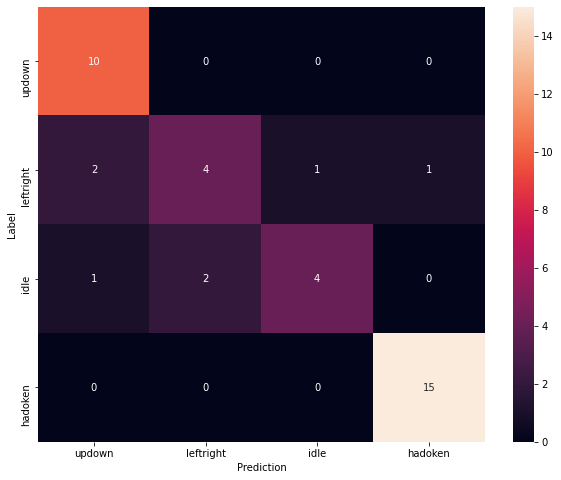
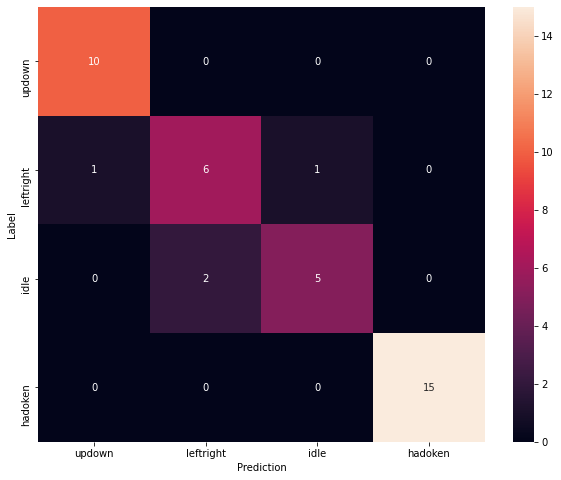
Gesture recognition done

diff --git a/assets/css/main.css b/assets/css/main.css
@@ -56,6 +56,10 @@ figure,
 main {
   /* 1 */
   display: block;
+  text-align: center;
+  text-size-adjust: auto;
+  font-size: 12px;
+  font-weight: 500;
 }
 
 /**

diff --git a/_posts/2021-03-27-gesture-recognition-using-a-neural-network.md b/_posts/2021-03-27-gesture-recognition-using-a-neural-network.md
@@ -1,38 +1,28 @@
 ---
-title: ANN Gesture recognition with Thingy:52 and MPU-6050
+title: Gesture recognition with a Thingy:52 and an MPU-6050
 layout: post
 description: Gesture recognition using a set of 3-axis IMU sensors
 img: gesture.jpg
 ---
 
-Gesture recognition is a fascinating area widely explored in the literature. Its goal is to infer users' actions based on their movement and it is mainly used in Human Computer Interaction. The general structure of gesture recognition consists of three main steps:
-- Data acquisition. In the first step, we list all the mecanisms used for collecting movements data and saving in a usable shape.
-- Pattern recognition
-- Interpretation
-
-In this article, we will build a simple model that collects data from an Inertial Measurement Unit (IMU) sensors and identifies known gestures. 
-The rest of the article is specially dedicated to those of you who are born in the 90's and/or have a culture of arcade gaming. If it applies to you, then you probably heard about Street Fighter II. If words like _SNES_, _Street Fighter_ or _arcade_ sound unfamiliar to you, please read at least [this article](https://en.wikipedia.org/wiki/Street_Fighter_II).
-
-### Plan
-- Data acquisition
-- Collecting data with MPU 6050
-- Collecting data with Nordic Thingy
-- Data processing
-- Training
-- Using the model
+Gesture recognition is a fascinating area widely explored in the literature. Mainly used in Human-Computer Interaction (HCI), its goal is to infer users’ actions based on their movement. The general structure of our project for detecting gestures consists of three main steps:
+- Data acquisition. In the first step, we list all the mechanisms used for collecting movements data and saving it in a usable shape.
+- Data processing. This step includes cleaning, data analysis, and model training.
+- Interpretation. In the last step, we can judge whether our train model works well or whether we have messed up :-(
+In this article, we will build a simple model that collects data from Inertial Measurement Unit (IMU) sensors and identifies known gestures. The rest of the article is specially dedicated to those of you born in the ’90s and/or who have a culture of arcade gaming. If it applies to you, then you probably heard about *Street Fighter II*. If words like *SNES*, *Street Fighter* or *arcade* sound unfamiliar to you, please read [this article](https://en.wikipedia.org/wiki/Street_Fighter_II).
 
 ## Data acquisition
-To collect data, we can use two approaches, one with a 3-Axis accelerometer and gyroscope IMU - MPU6050  and a Nordic Thingy:52 which is built on a Bluetooth 5 ready nRF52832 SoC and embeds a 9-axis IMU (Accelerometer, compass and Gyroscope).
+To collect data, we can use two approaches. The first one using a 3-Axis accelerometer and gyroscope IMU - ***MPU6050***  and the second approach using a ***Nordic Thingy:52*** which is built on a Bluetooth 5 ready ***nRF52832 SoC*** and embeds a 9-axis IMU (Accelerometer, compass and Gyroscope).
 
 ### Collecting data with an MPU6050
-If you choose to use this approach, make sure to order the correct IMU sensor. You can use this link as reference: [MPU-6050 on Amazon](https://www.amazon.com/HiLetgo-MPU-6050-Accelerometer-Gyroscope-Converter/dp/B00LP25V1A/ref=sr_1_1?dchild=1&keywords=MPU-6050&qid=1625759114&sr=8-1).
-As you can see, it is quite cheap so do not hesitate to order several items just to be on the safe side. In this article, we will collect data from the IMU sensor through a Raspberry Pi. Make sure to have a soldering iron and some wires to connect to the GPIO port on your Raspberry as presented below.
+If you choose to use this approach, make sure to order the correct IMU sensor. You can use this link as a reference: [MPU-6050 on Amazon](https://www.amazon.com/HiLetgo-MPU-6050-Accelerometer-Gyroscope-Converter/dp/B00LP25V1A/ref=sr_1_1?dchild=1&keywords=MPU-6050&qid=1625759114&sr=8-1).
+As you can see, it is pretty cheap do not hesitate to order several items just to be on the safe side. In this article, we will collect data from the IMU sensor through a Raspberry Pi. Make sure to have a soldering iron and some wires to connect to the GPIO port on your Raspberry, as presented below.
 <figure>
 	<img src="../assets/img/RPI_mpu6050.jpg" style="height=500px; text-align:'center'" />
 	<figcaption>Wiring an MPU6050 to RPi GPIO ports</figcaption>
 </figure>
 
-Once the hardware part done, we can focus on the software side. To manipulate the data, we will create a simple script to make a link between the sensor and the Raspberry, collect the data and store in a file.
+Once the hardware part is done, we can focus on the software side. To manipulate the data, we will create a simple script to link the sensor to the Raspberry, collect the data and store in a file.
 
 ```python
 from board import SDA, SCL
@@ -65,7 +55,7 @@ with open("idle.csv", mode="w") as f:
 
 ```
 
-The data collected will be used to train our Neural Network. By default, we will collect 10 samples per second or each action and save in a `CSV` file that should look as follows:
+The data collected will be used to train our Neural Network. By default, we will collect 10 samples per second or each action and save them in a `CSV` file that should look like this:
 ```csv
 acc_x,acc_y,acc_z,gyro_x,gyro_y,gyro_z
 0.414794921875,-0.2760009765625,0.800048828125,-2.450381679389313,15.49618320610687,0.2366412213740458
@@ -75,16 +65,16 @@ acc_x,acc_y,acc_z,gyro_x,gyro_y,gyro_z
 ```
 
 The gestures we will try to detect are:
-- leftright: action of moving a hand (while holding the sensor) from left to right repeatedly.
-- updown: same as the previous but we should move from up to down repeatedly.
-- Hadoken: coolest part of this project. We just have to make (a lot of) hadokens.
-- Idle: We will just collect data on a flat surface. In our example, we will consider unknown actions as idle.
+- **leftright**. The action of moving a hand (while holding the sensor) from left to right repeatedly.
+- **updown**. Same as the previous but we should move from up to down repeatedly.
+- **Hadoken**. The coolest part of this project. We just have to make (a lot of) hadokens.
+- **Idle**. We will just collect data on a flat surface. In our example, we will consider unknown actions as idle.
 
-Collecting data is annoying, that why I am sharing with you all the data you will need: [leftright](https://raw.githubusercontent.com/alphasldiallo/IMU_data/main/leftright.csv), [updown](https://raw.githubusercontent.com/alphasldiallo/IMU_data/main/updown.csv), [hadoken](https://raw.githubusercontent.com/alphasldiallo/IMU_data/main/hadoken.csv), [idle](https://raw.githubusercontent.com/alphasldiallo/IMU_data/main/idle.csv).
+Collecting data is annoying; that is why I am sharing with you all the data you will need: [leftright](https://raw.githubusercontent.com/alphasldiallo/IMU_data/main/leftright.csv), [updown](https://raw.githubusercontent.com/alphasldiallo/IMU_data/main/updown.csv), [hadoken](https://raw.githubusercontent.com/alphasldiallo/IMU_data/main/hadoken.csv), [idle](https://raw.githubusercontent.com/alphasldiallo/IMU_data/main/idle.csv).
 
 ### Collecting data using a Thingy:52
 
-To collect data from the Thingy:52, we can use this nice open source library available here: https://github.com/hbldh/bleak. To get the measurements, we will first make a scan in order to get our device's UUID: 
+To collect data from the Thingy:52, we can use this nice open-source library available here: https://github.com/hbldh/bleak. To get the measurements, we will first make a scan to get our device's UUID: 
 ```python
 import asyncio
 from bleak import BleakScanner
@@ -99,11 +89,11 @@ async def run():
 loop = asyncio.get_event_loop()
 loop.run_until_complete(run())
 ```
-Hint: Make sure to install the dependencies before running the scripts.
+**Hint**: Make sure to install the dependencies before running the scripts.
 
-If everything goes as expected, we should get a list containing all the Thingy in the surroundings. In my case, I only have one with the following UUID: `3F706B28-2A00-4C26-9C1F-AF1C2F01299B`.
+If everything goes as expected, we should get a list containing all the Thingys in the surroundings. In my case, I only have one with the following UUID: `3F706B28-2A00-4C26-9C1F-AF1C2F01299B`.
 
-With the Thingy, we will collect data from the accelerometer and save it in a csv file. We use the following script to collect the acceleration data as notifications from the Thingy.
+With the Thingy, we will collect data from the accelerometer and save it in a CSV file. We use the following script to collect the acceleration data as notifications from the Thingy.
 
 ```python
 
@@ -161,10 +151,9 @@ if __name__ == "__main__":
 
 ```
 
-
 ## Preprocessing
 
-In this section, we will manipulate the collected data and try to have a better understanding of the datasets. The library that will be use are: `pandas`, `numpy`, `matplotlib`, `scikit-learn` and `tensorflow`.
+In this section, we will manipulate the collected data and try to have a better understanding of the datasets. The libraries that will be use are: `pandas`, `numpy`, `matplotlib`, `scikit-learn` and `tensorflow`.
 ```python
 import pandas as pd
 import numpy as np
@@ -190,15 +179,15 @@ plt.plot(df2["acc_x"], "g")
 plt.plot(df4["acc_x"], "b")
 plt.show()
 ```
-The plot below shows the acceleration on the x axis of dataframes 1, 2, and 4 (respectively `updown`, `leftright` and `idle`). For a human, it difficult to distinguish the acceleration of the x axis when we move `updown` and `leftright`. Data collected from `idle` are clearly distinguishable as the device stays idle on a flat surface.
+The plot below shows the acceleration on the *x axis* of dataframes 1, 2, and 4 (respectively `updown`, `leftright` and `idle`). For a human, it is difficult to distinguish the acceleration on the *x axis* when we move `updown` and `leftright`. Data collected from `idle` are clearly distinguishable as the device stays idle on a flat surface.
 
 <figure>
 <img src="../assets/img/acceleration_data.png" style="height=500px; text-align:'center'" />
 	<figcaption>Acceleration on the x axis from updown, leftright and idle</figcaption>
 </figure>
 
-For the moment, our data is still messy and hard to manipulate. To clean it up, we will proceed with two steps: encoding and normalization.
-As our output data are categorical, we will use an encoding technique to turn the output into numerical values. We will turn the categories into binaries values, each bit will represent a possible category. This method is called [One-hot encoding](https://en.wikipedia.org/wiki/One-hot). 
+For the moment, our data is still messy and hard to manipulate. To clean it up, we will proceed with two steps: ***encoding*** and ***normalization***.
+As our output data are categorical, we will use an encoding technique to turn the output into numerical values. We will turn the categories into vectors of binaries values, each bit will represent a possible category. This method is called [One-hot encoding](https://en.wikipedia.org/wiki/One-hot). 
 
 ```python
 # Encoding
@@ -219,11 +208,9 @@ print(ONE_HOT_ENCODED_GESTURES)
 
 # 
 ```
-
-We  normalize our data in order to use it in a given interval. Once our data are encoded and normalized, we will save the results in [tensors](https://www.tensorflow.org/guide/tensor) which can be simply seen as multidimensional arrays used by Tensorflow. 
+To use the data in a given interval, we have to proceed with normalization. Once the data is encoded and normalized, we will save the results in [tensors](https://www.tensorflow.org/guide/tensor) which can be simply seen as multidimensional arrays used by *Tensorflow*. 
 ```python
-
-# To have meaningful results, we split our timeseries into smaller pieces which should represent approximately the pattern of a single gesture.
+# To have meaningful results, we split our timeseries into smaller pieces which should  represent approximately the pattern of a single gesture.
 SAMPLES_PER_GESTURE = 10
 
 inputs = []
@@ -261,7 +248,7 @@ for gesture_index in range(NUM_GESTURES):
           (df['acc_z'][index] + 4) / 8,
           (df['gyro_x'][index] + 2000) / 4000,
           (df['gyro_y'][index] + 2000) / 4000,
-          (df['gyro_z'][index] + 2000) / 4000,
+          (df['gyro_z'][index] + 2000) / 4000
       ]
     inputs.append(tensor)
     outputs.append(output)
@@ -272,4 +259,99 @@ outputs = np.array(outputs)
 
 ```
 
+## Cross-validation
+Now that we have cleaned and normalized data, we can employ a common technique used in Machine Learning. This method is called ***cross-validation*** and it is used to evaluate a model on data samples. The first step is to randomize the original data samples by swapping the indexes of both the inputs and the outputs. The next step consists in splitting the randomized data in three separate sets (training, testing and validation) using a ***k-fold cross-validation*** . We will use 60% of the data for the Training set, 20% for the Testing set and 20% for the Validation.
+```python
+# Let's split the dataset
+
+# Randomize the order of the inputs, so they can be evenly distributed for training and testing
+num_inputs = len(inputs)
+randomize = np.arange(num_inputs)
+np.random.shuffle(randomize)
+
+# Swap the consecutive indexes (0, 1, 2, etc) with the randomized indexes
+inputs = inputs[randomize]
+outputs = outputs[randomize]
+
+# Split the recordings (group of samples) into three sets: training, testing and validation
+TRAIN_SPLIT = int(0.6 * num_inputs)
+TEST_SPLIT = int(0.2 * num_inputs + TRAIN_SPLIT)
+
+inputs_train, inputs_test, inputs_validate = np.split(inputs, [TRAIN_SPLIT, TEST_SPLIT])
+outputs_train, outputs_test, outputs_validate = np.split(outputs, [TRAIN_SPLIT, TEST_SPLIT])
+```
+
+## Building the model
+The final step before observing some results is setting up the model. To train our model, we will use a *Keras sequential model* with fully connected stack of layers. For the first and second layers, we will use a *Rectified Linear Unit (ReLU)* as Activation function and *Softmax* for the final layer. The metrics we are interested in are the `Mean Squared Error (MSE)` and the `Accuracy`.
+```python
+# Build and train
+
+# build the model and train it
+model = tf.keras.Sequential()
+model.add(tf.keras.layers.Dense(30, activation='relu')) # relu is used for performance
+model.add(tf.keras.layers.Dense(15, activation='relu'))
+# the final layer is softmax because we only expect one gesture to occur per input
+model.add(tf.keras.layers.Dense(NUM_GESTURES, activation='softmax'))
+model.compile(optimizer='rmsprop', loss='mse', metrics=['mse', 'accuracy'])
+```
+Once the model is ready, we can start the training and store the results in a variable called `history`.
+```python
+history = model.fit(inputs_train, outputs_train, epochs=1000, batch_size=1, validation_data=(inputs_validate, outputs_validate))
+```
+As you can see, we are training our model in 1000 epochs and with only one sample per gradient update represented by the `batch_size` attribute, feel free to change these parameters.
+
+You can run the script to train the model. Grap a coffee and wait, it usually takes some time.
 ## Interpretation
+If everything goes as planned, we should be able to see how the model performs by manipulating the `History` object returned by `model.fit`.
+To plot the loss, we can use the following script:
+```python
+# increase the size of the graphs. The default size is (6,4).
+plt.rcParams["figure.figsize"] = (20,10)
+
+# Our model uses "mean squared error" as the loss function
+loss = history.history['loss']
+val_loss = history.history['val_loss']
+epochs = range(1, len(loss) + 1)
+plt.plot(epochs, loss, 'g.', label='Training loss')
+plt.plot(epochs, val_loss, 'b.', label='Validation loss')
+plt.title('Training and validation loss')
+plt.xlabel('Epochs')
+plt.ylabel('Loss')
+plt.legend()
+plt.show()
+```
+As we can observed from the graph below, the error gradually decreases with the number of epochs and stabilizes at some point. However, we have to be careful not to misinterpret the results; **a loss that is too low or at 0 could indicate that the model overfits**.
+
+<figure>
+<img src="../assets/img/loss.png" style="height=500px; text-align:'center'" />
+	<figcaption>Training and validation loss</figcaption>
+</figure>
+We can also observe that the model quickly converges but shows a scattered loss on the validation set. As the loss decreases, the accuracy increases, as shown in the plot below.
+
+<figure>
+<img src="../assets/img/accuracy.png" style="height=500px; text-align:'center'" />
+	<figcaption>Accuracy of the model on the Training and Validation sets</figcaption>
+</figure>
+
+Another way to assess the performance of our model is by using a [confusion matrix](https://en.wikipedia.org/wiki/Confusion_matrix). It is a type of contingency table frequently used to assess the performance of a classification task. For our task, we will have a 4x4 matrix containing our output labels (gestures). On the `x axis`, we have predicted classes and on the `y axis`, we have the actual classes.
+
+<figure>
+<img src="../assets/img/confusion_matrix.png" style="height=500px; text-align:'center'" />
+	<figcaption>Confusion matrix</figcaption>
+</figure>
+
+We can observe that our model performs well in detecting some gestures such as `updown` and `hadoken`. For `leftRight`, we observe 6 *True Positives* and 2 *False Positives*. For Idle, we have 5 *True Positives* and 2 *False Positives*. 
+To have a better understanding of the performance of our classifier, we can use the *Precision*, *Recall* and *F1-Score* computed as follows:<br>
+$$Precision = TP/(TP+FP)\\$$<br>
+$$Recall = TP/(TP+FN)\\$$<br>
+$$F1-Score =2*\frac{Precision * Recall}{Precision + Recall}$$<br>
+
+You can find below a more detailed classification report generated by `sklearn`:
+<figure>
+<img src="../assets/img/classification_report.png" style="text-align:'center'" />
+	<figcaption>Classification report</figcaption>
+</figure>
+
+We have come to the end of this article, which goal was to explore some important steps in Machine Learning such as data collection, analysis and design stages of a classification model. In a next article, I will show you how to exploit this trained model to perform basic actions in a fighting game using an MPU6050 and a Nordic Thingy:52 microcontroller.
+
+The source code for the project can be found on (Github)[https://github.com/alphasldiallo/IMU_data]. In case you find errors or want to suggest some improvements, do not hesitate to open an issue or make a Pull Request.
